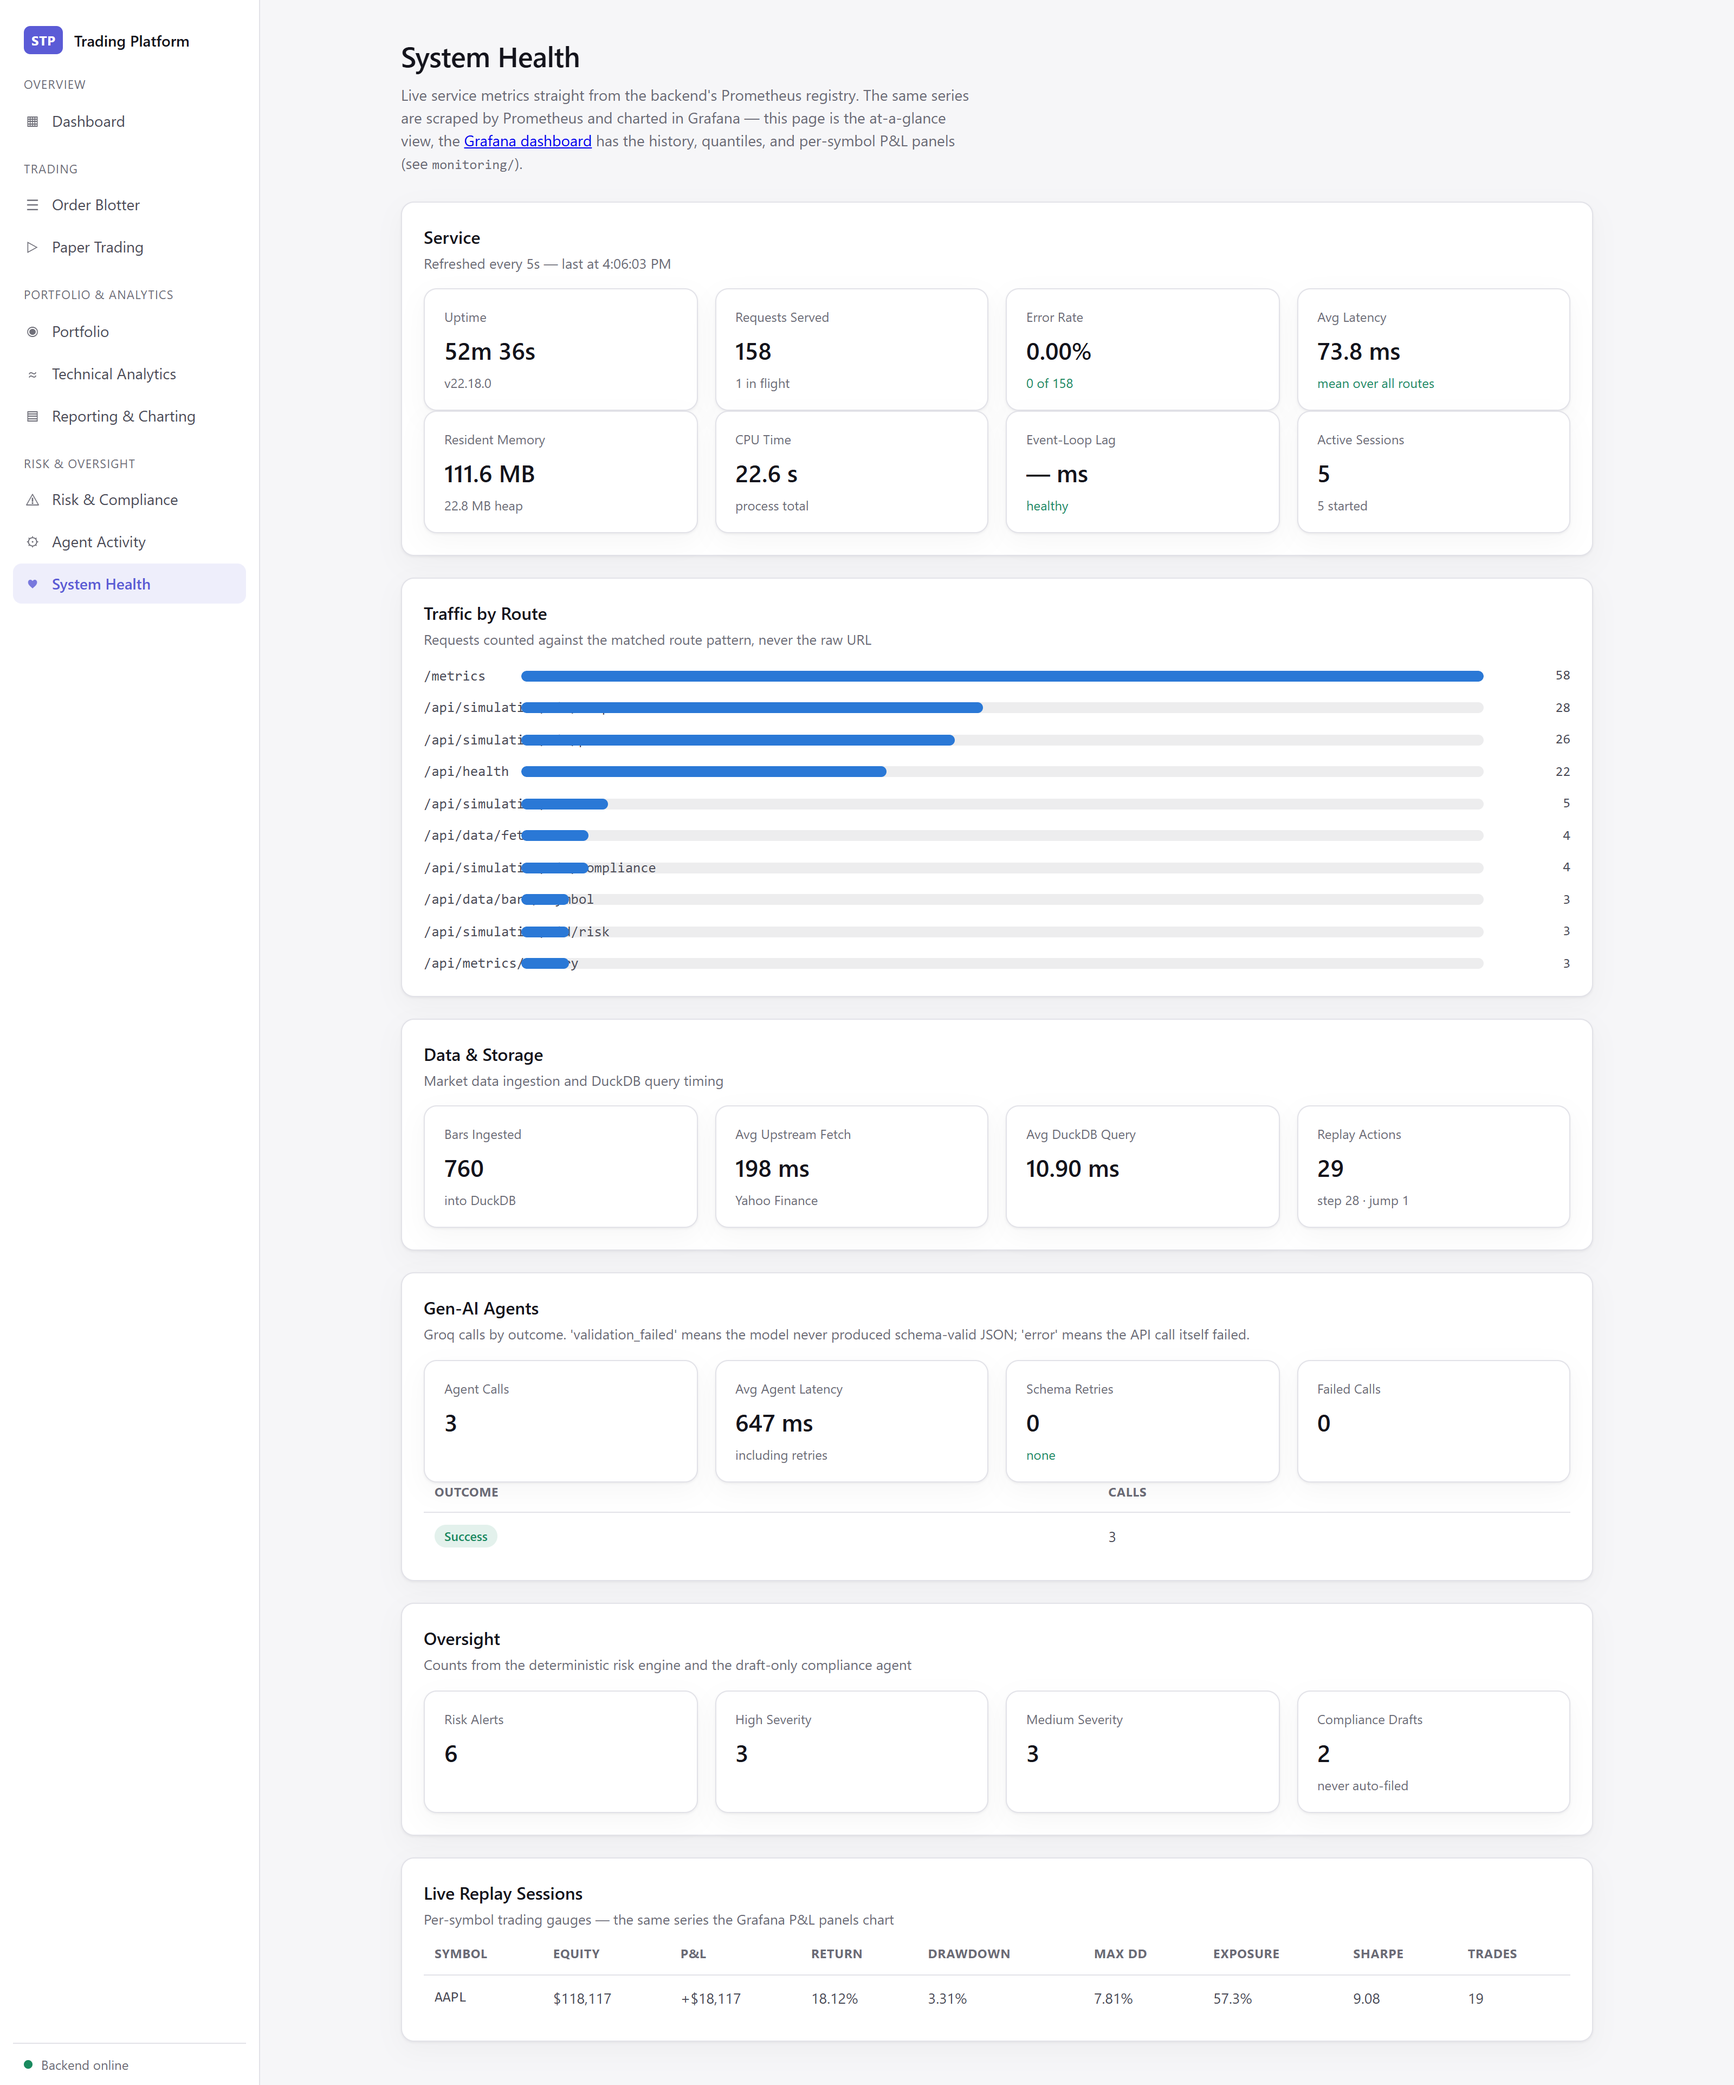
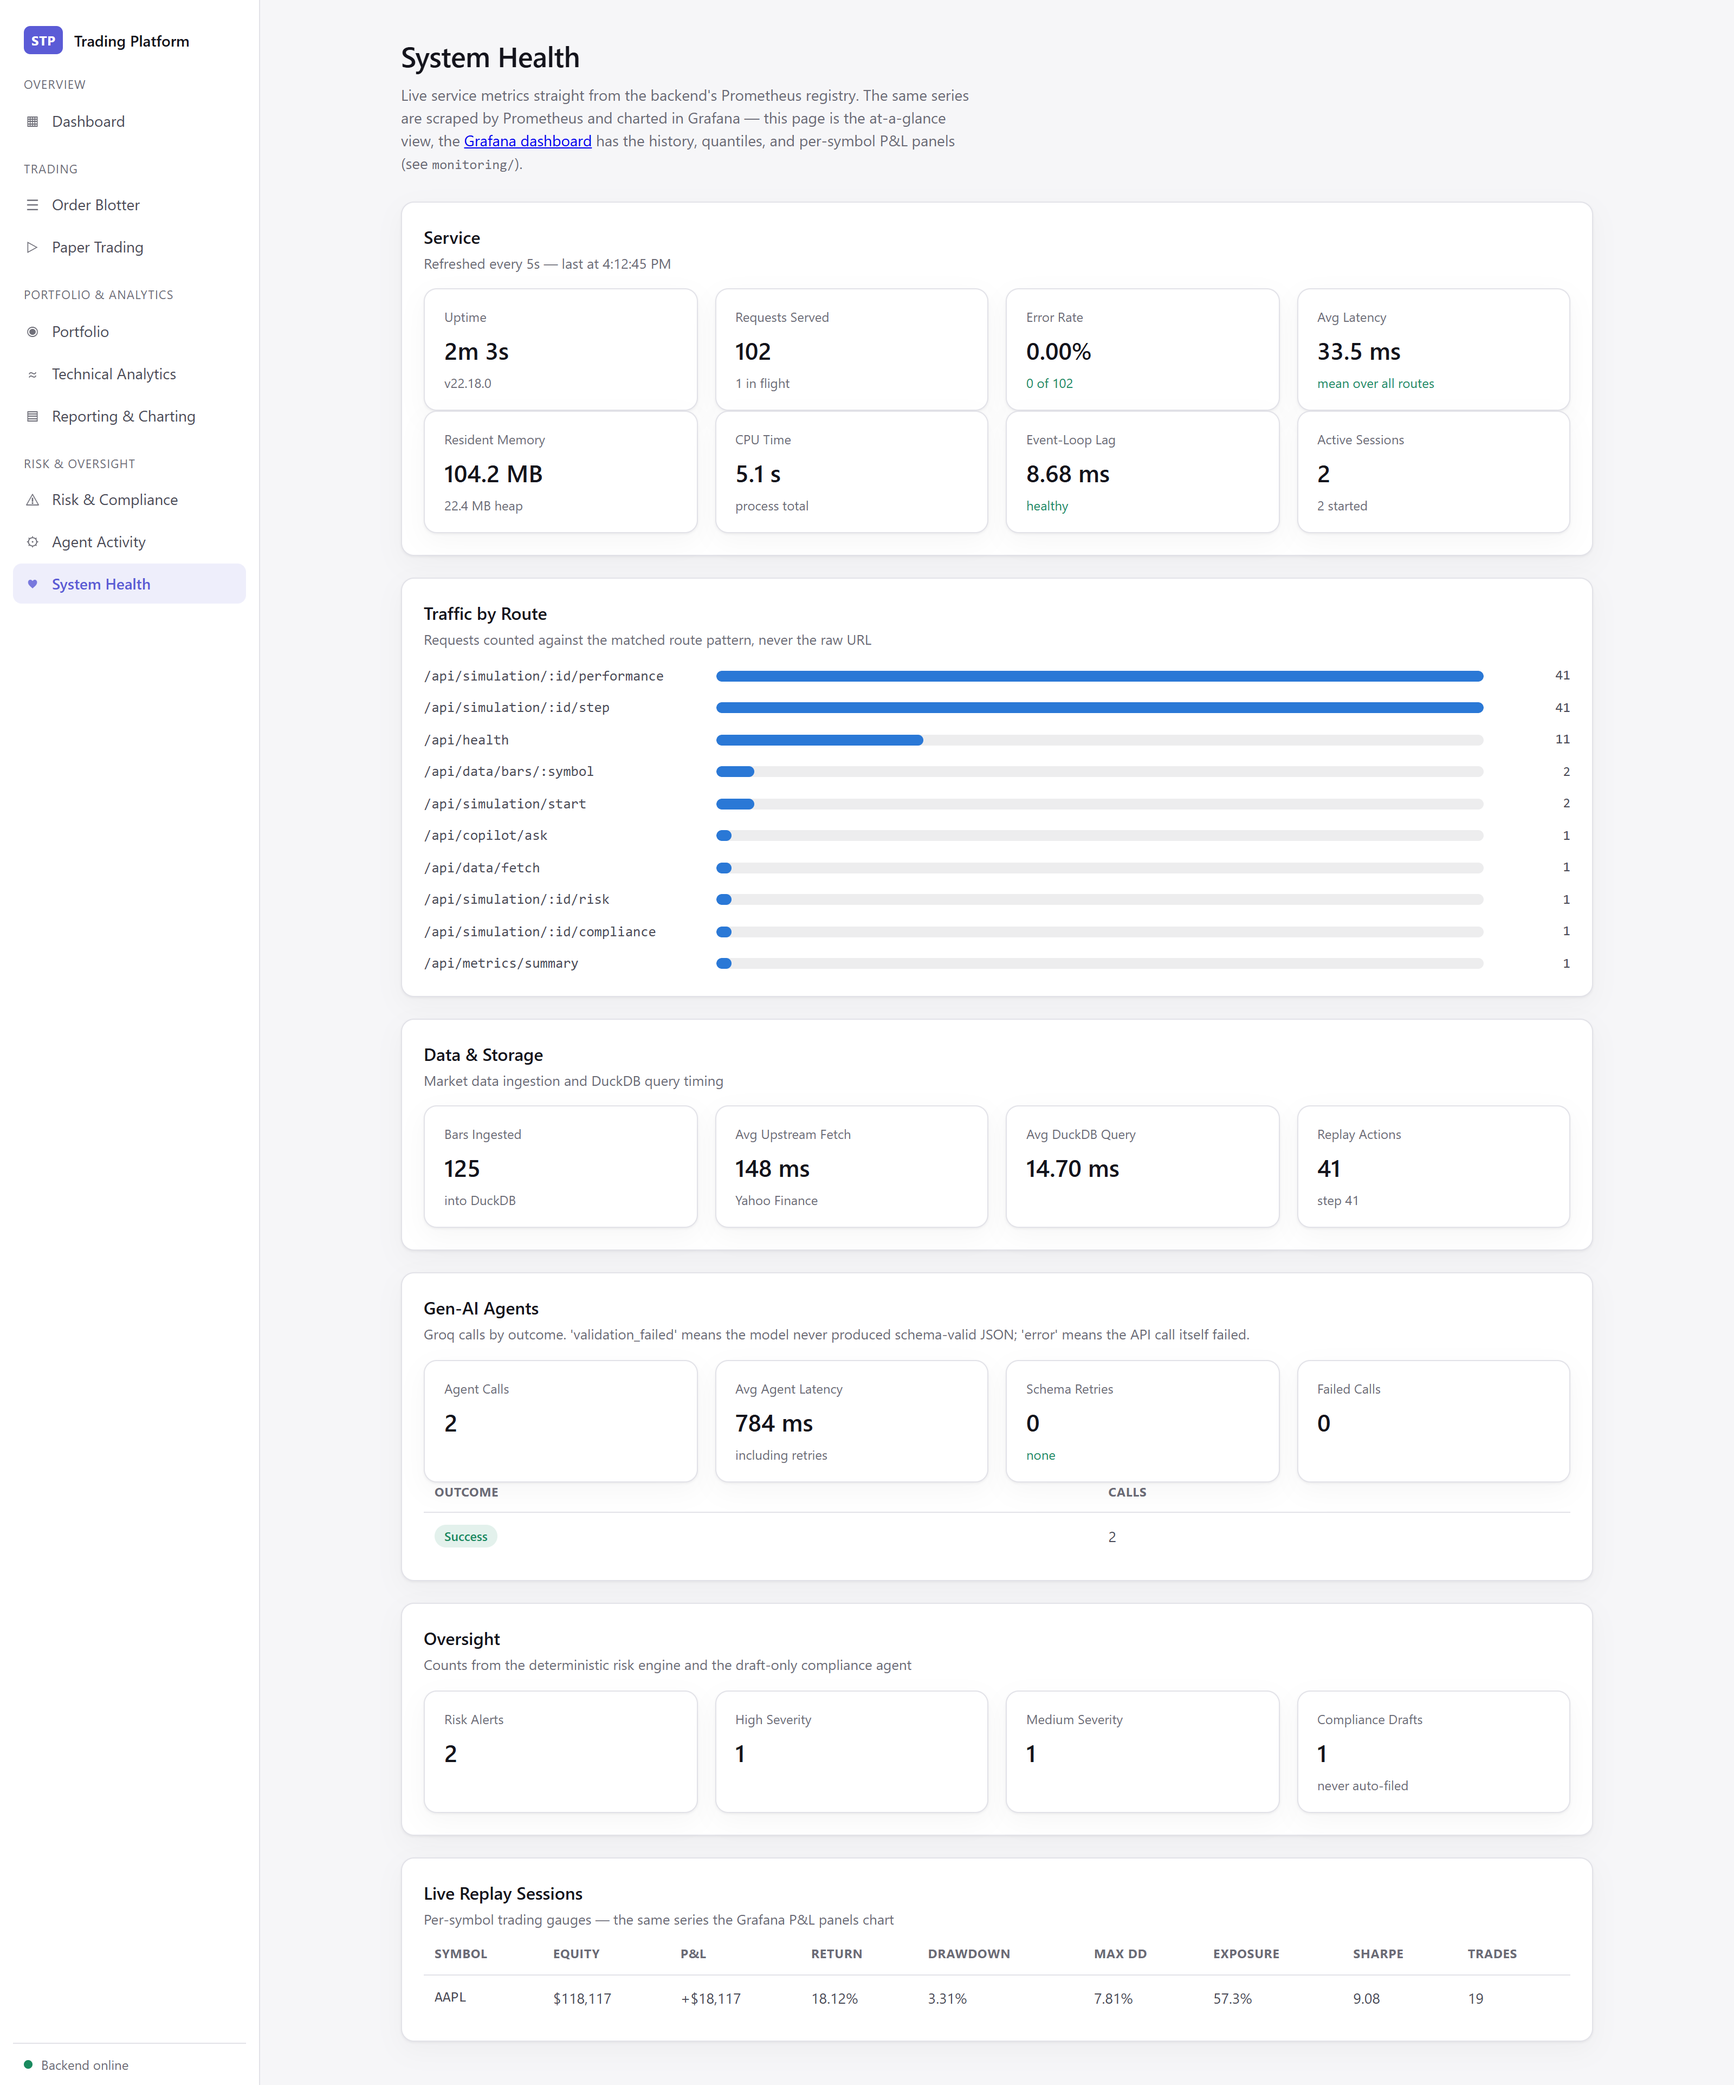
Document the monitoring stack and fix the Prometheus scrape port
Expands the README to cover the observability work: the monitoring/
stack, the System Health page, what is instrumented (system vs trading
metrics, and why HTTP metrics are labelled by route pattern rather than
raw URL), running the backend on a non-default port, and the known
limitations around mixed bar sizes, in-memory sessions, and symbol-only
gauge labelling.

Adds the Grafana dashboard screenshot the Screenshots section referenced
but never included, captured against a live replay so every panel has
real data.

prometheus.yml scraped host.docker.internal:4100, but the backend's
default PORT is 4000, so a fresh clone running `npm run dev` and
`docker compose up` got an empty dashboard. Points it at 4000 to match
the documented default; the README already explains how to change it if
you move the port.

diff --git a/README.md b/README.md
@@ -17,17 +17,26 @@ reporting & charting, technical analytics, and paper trading.
   human-readable triage narrative — draft-only, never auto-filed).
 - **[frontend/](./frontend)** — Vite + React (JavaScript) dashboard UI with navigation
   across all major feature areas (dashboard, order blotter, portfolio, risk & compliance,
-  reporting, technical analytics, paper trading, agent activity). Paper Trading, Risk &
-  Compliance, and the Reporting copilot/allocation chart are wired to the real backend; the
-  rest of the UI is still backed by mock data matching the shapes described in the workplan.
+  reporting, technical analytics, paper trading, agent activity, system health). Paper
+  Trading, Risk & Compliance, System Health, and the Reporting copilot/allocation chart are
+  wired to the real backend; the rest of the UI is still backed by mock data matching the
+  shapes described in the workplan.
+- **[monitoring/](./monitoring)** — a provisioned Prometheus + Grafana stack in Docker
+  Compose. The backend exports both service metrics (HTTP, DuckDB, Groq agents, Node
+  runtime) and live trading metrics (equity, P&L, drawdown, exposure, Sharpe per replayed
+  symbol), so one dashboard shows whether the platform is healthy *and* what it is doing.
 
 ## Screenshots
 
-### Paper Trading — bar-by-bar replay of real market data
+### Paper Trading — bar-by-bar replay, with P&L and drawdown analytics
 
 Historical bars are fetched into DuckDB and replayed one at a time; you can play, step,
 rewind, or jump to a date and resimulate the strategy from there. Trades are marked on the
-price chart and tracked against an equity curve.
+price chart and tracked against an equity curve, a cumulative P&L chart with a breakeven
+baseline, and an underwater drawdown chart — alongside Sharpe, Sortino, volatility, win
+rate, profit factor and exposure. All of it is computed deterministically from the equity
+curve and trade tape (`backend/src/analytics/performance.js`), and the same numbers are
+exported to Prometheus.
 
 ![Paper Trading](./docs/screenshots/paper-trading.png)
 
@@ -39,6 +48,27 @@ drafts the human-readable triage narrative, clearly labelled `AI DRAFT` and alwa
 human review.
 
 ![Risk & Compliance](./docs/screenshots/risk-compliance.png)
+
+### System Health — live service and trading metrics in the app
+
+Reads the backend's Prometheus registry through a JSON summary endpoint: uptime, request
+volume and error rate, latency, memory, event-loop lag, traffic by route, ingestion and
+DuckDB query timing, per-agent Groq outcomes and schema retries, risk/compliance counts,
+and a live table of replay sessions. It polls every 5s and keeps the last good reading on
+screen (labelled as stale) if the backend goes away.
+
+![System Health](./docs/screenshots/system-health.png)
+
+### Grafana — system monitoring and P&L history
+
+The same metrics over time, rather than the current snapshot the in-app page shows. One
+dashboard pairs paper-trading performance (cumulative P&L, drawdown from peak, session
+equity, exposure and trade count, risk alerts) with service health (request rate by route,
+latency quantiles, memory, CPU and event-loop lag, DuckDB query time, and per-agent Groq
+latency and outcomes including schema retries). Stepping a replay in the UI moves the P&L
+panels live.
+
+![Grafana dashboard](./docs/screenshots/grafana.png)
 
 ### Reporting & Charting — KPIs, exposure charts, and the research copilot
 
@@ -82,6 +112,71 @@ The sidebar shows a live "Backend online/offline" indicator so it's obvious when
 backend isn't running. Paper Trading needs the backend; the rest of the dashboard works
 (against mock data) even if it's down.
 
+### Running on a different port
+
+`PORT` and `DUCKDB_PATH` are both read from the environment. **Change them together** —
+DuckDB takes an exclusive lock on its file, so a second backend pointed at the same
+database exits immediately with `Connection Error: Connection was never established`. That
+error means "another process already has this file open", not "the port is busy".
+
+```
+cd backend
+PORT=4100 DUCKDB_PATH=./data/market-4100.duckdb npm run dev
+```
+
+Point the frontend at it with `VITE_API_BASE_URL`, and pick its own port:
+
+```
+cd frontend
+VITE_API_BASE_URL=http://localhost:4100/api npm run dev -- --port 5180
+```
+
+If you move the backend port, update the Prometheus scrape target in
+`monitoring/prometheus/prometheus.yml` to match and reload:
+`curl -X POST http://localhost:9090/-/reload`.
+
+## Monitoring
+
+The backend exposes Prometheus metrics at `/metrics` (and a JSON rollup at
+`/api/metrics/summary`, which is what the in-app System Health page renders). To bring up
+the full observability stack:
+
+```
+cd monitoring
+docker compose up -d
+```
+
+| | |
+|---|---|
+| Grafana | http://localhost:3001 — `admin` / `admin`, anonymous viewing enabled |
+| Dashboard | http://localhost:3001/d/stp-platform/stp-trading-platform |
+| Prometheus | http://localhost:9090 |
+
+The datasource and dashboard are provisioned from files
+(`monitoring/grafana/provisioning/`, `monitoring/grafana/dashboards/`), so the dashboard
+lives in git and exists on first boot — no setup wizard, and edits to the JSON are picked
+up without restarting the container.
+
+The stack only *observes* the backend; the backend itself runs on the host, which is why
+Prometheus scrapes `host.docker.internal:4000` rather than a Compose service name.
+
+**What's instrumented.** Two families of metric, both on the same dashboard:
+
+- *System* — HTTP request rate, error rate and latency quantiles; Node process CPU,
+  resident memory, heap and event-loop lag; DuckDB query time by operation; upstream Yahoo
+  Finance fetch latency; and per-agent Groq latency and outcomes. Agent outcomes separate
+  `validation_failed` (the model never produced schema-valid JSON) from `error` (the API
+  call itself failed), so "Groq is down" and "Groq is rambling" don't look alike.
+- *Trading* — per-symbol equity, cumulative P&L, current and max drawdown, exposure,
+  Sharpe and trade count, republished on every replay action. Stepping the simulation in
+  the UI moves the Grafana P&L chart.
+
+HTTP metrics are labelled with the matched **route pattern**, not the raw URL — replay
+paths carry a session UUID, so labelling by URL would mint a new time series per session.
+
+Anonymous access and the default `admin`/`admin` credentials are deliberate for a local
+sandbox and should not be carried into a real deployment (see `workplan.md` §9).
+
 ## Testing
 
 Both projects use Vitest:
@@ -102,16 +197,37 @@ and `complianceAgent.js`'s deterministic pattern detection plus its Groq-drafted
 narrative). `strategyAgent.js`, `copilotAgent.js`, and `complianceAgent.js` all validate
 model output against a `zod` schema before it's ever used.
 
+They also cover the performance analytics (`performance.js` — P&L, drawdown, Sharpe, win
+rate, exposure, plus the guards that keep an empty session from dividing by zero and leave
+genuinely-undefined metrics null rather than reporting a confident `0`) and the metrics
+layer (route-pattern labelling, request/latency/error counting, live P&L gauges, and that a
+Groq transport failure is recorded as `error` while a schema failure is recorded as
+`validation_failed`).
+
 Frontend tests cover UI components, the error boundary's catch/recover behavior, chart
-components (including empty-data and divide-by-zero guards), and the API client's handling
-of network failures and non-2xx responses. Every page-level route is wrapped in an
-`ErrorBoundary` (`frontend/src/components/ErrorBoundary.jsx`), keyed by path, so a crash on
-one page doesn't take down navigation to the rest of the app.
+components (including empty-data, divide-by-zero, and reference-baseline guards), the
+System Health page (including that it keeps the last good reading when a refresh fails),
+and the API client's handling of network failures and non-2xx responses. Every page-level
+route is wrapped in an `ErrorBoundary` (`frontend/src/components/ErrorBoundary.jsx`), keyed
+by path, so a crash on one page doesn't take down navigation to the rest of the app.
 
 ## Status
 
 See `workplan.md` §10 for the phased roadmap. Paper trading (market data ingestion,
-DuckDB storage, bar-by-bar replay/resimulation, and the strategy/copilot Groq agents) and
-risk & compliance (rules-based risk evaluation plus Groq-drafted compliance triage,
-evaluated live against a simulated session) are functional end-to-end; most other pages
-are still mock-data-driven UI ahead of the corresponding backend agent work.
+DuckDB storage, bar-by-bar replay/resimulation, performance analytics, and the
+strategy/copilot Groq agents), risk & compliance (rules-based risk evaluation plus
+Groq-drafted compliance triage, evaluated live against a simulated session), and
+observability (Prometheus instrumentation, the System Health page, and the provisioned
+Grafana stack) are functional end-to-end; most other pages are still mock-data-driven UI
+ahead of the corresponding backend agent work.
+
+Known limitations worth knowing about:
+
+- Bars for a symbol are stored in one table regardless of bar size, so fetching both daily
+  and 5-minute data for the same symbol makes the replay mix granularities. Annualized
+  figures detect this and fall back to a daily assumption rather than reporting an inflated
+  Sharpe, but the price series itself is still a mix. Use one bar size per symbol.
+- Replay sessions live in an in-memory map in the backend process, so they don't survive a
+  restart and won't work across multiple instances.
+- The Prometheus trading gauges are labelled by symbol only. Two concurrent sessions on the
+  same symbol overwrite each other's values.
